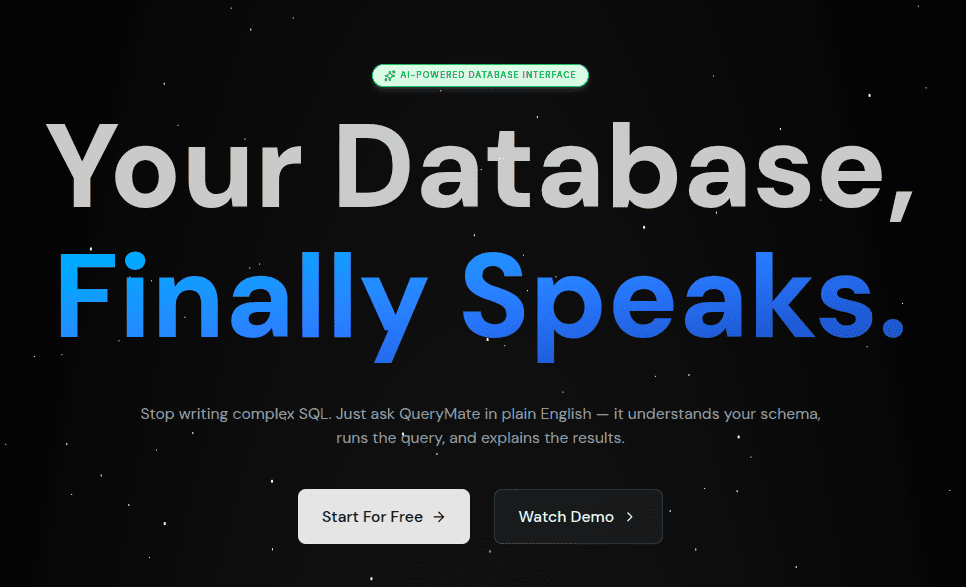
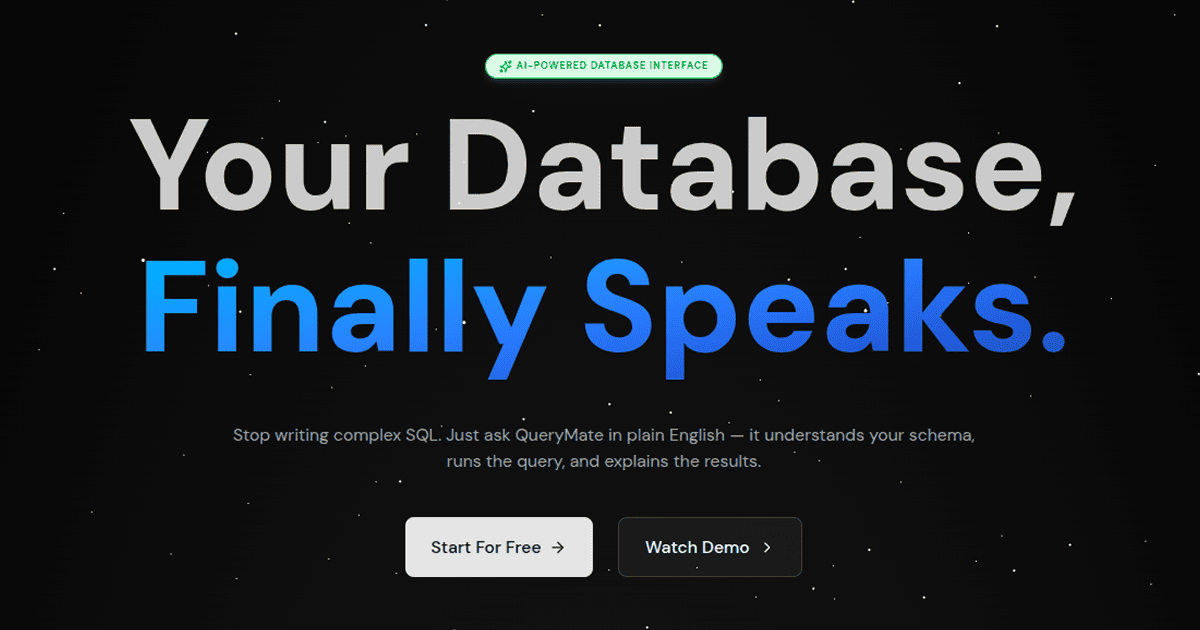
fix: update Open Graph image for improved social sharing

diff --git a/src/app/layout.tsx b/src/app/layout.tsx
@@ -18,19 +18,19 @@ const fontMono = Geist_Mono({
 
 export const metadata: Metadata = {
   title: {
-    default: "QueryMate - Chat With DB",
+    default: "QueryMate – AI Database Assistant for PostgreSQL, MySQL & MongoDB",
     template: "%s | QueryMate",
   },
   description:
-    "QueryMate is a full-stack SaaS application that allows users to query their databases using natural language. It converts user questions into code using AI, executes queries safely, and displays results with visualization.",
+    "QueryMate is an AI-powered database assistant that lets you chat with PostgreSQL, MySQL and MongoDB databases using natural language.",
   openGraph: {
     type: "website",
     locale: "en_US",
     url: SiteUrl,
     siteName: "QueryMate",
-    title: "QueryMate - Chat With DB",
+    title: "QueryMate – AI Database Assistant for PostgreSQL, MySQL & MongoDB",
     description:
-      "QueryMate lets you query your database using natural language. Just ask in plain English — it understands your schema, runs the query, and explains the results.",
+      "Chat with PostgreSQL, MySQL and MongoDB databases using natural language. Generate SQL, explore data and get insights instantly.",
     images: [
       {
         url: `${SiteUrl}/og.png`,
@@ -42,9 +42,9 @@ export const metadata: Metadata = {
   },
   twitter: {
     card: "summary_large_image",
-    title: "QueryMate - Chat With DB",
+    title: "QueryMate – AI Database Assistant for PostgreSQL, MySQL & MongoDB",
     description:
-      "QueryMate lets you query your database using natural language. Just ask in plain English — it understands your schema, runs the query, and explains the results.",
+      "Chat with PostgreSQL, MySQL and MongoDB databases using natural language. Generate SQL, explore data and get insights instantly.",
     images: [`${SiteUrl}/og.png`],
   },
   robots: {